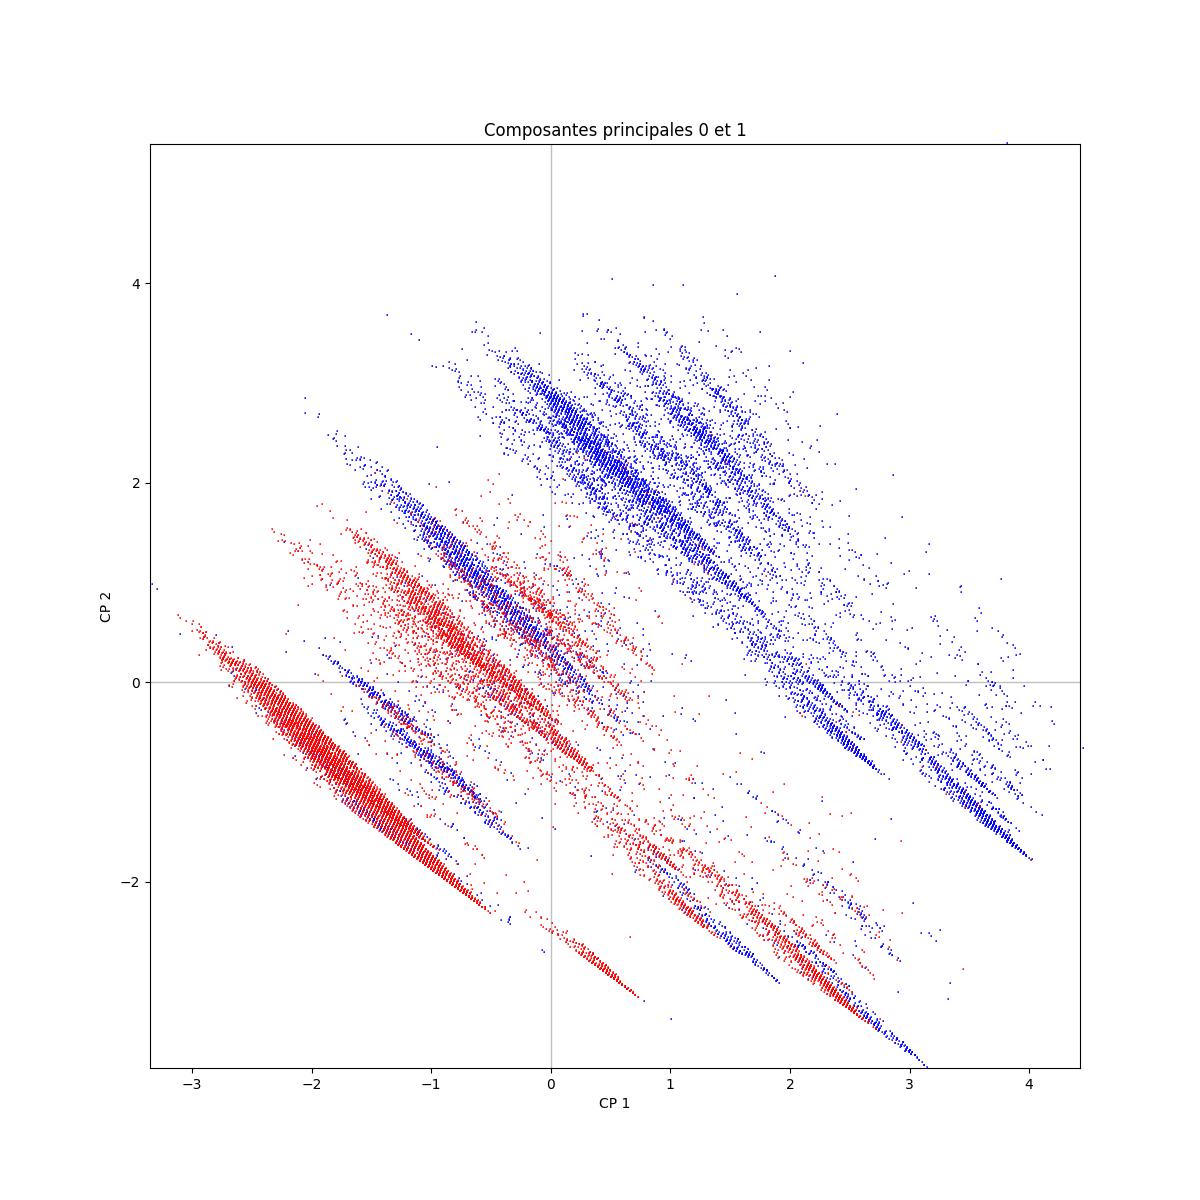
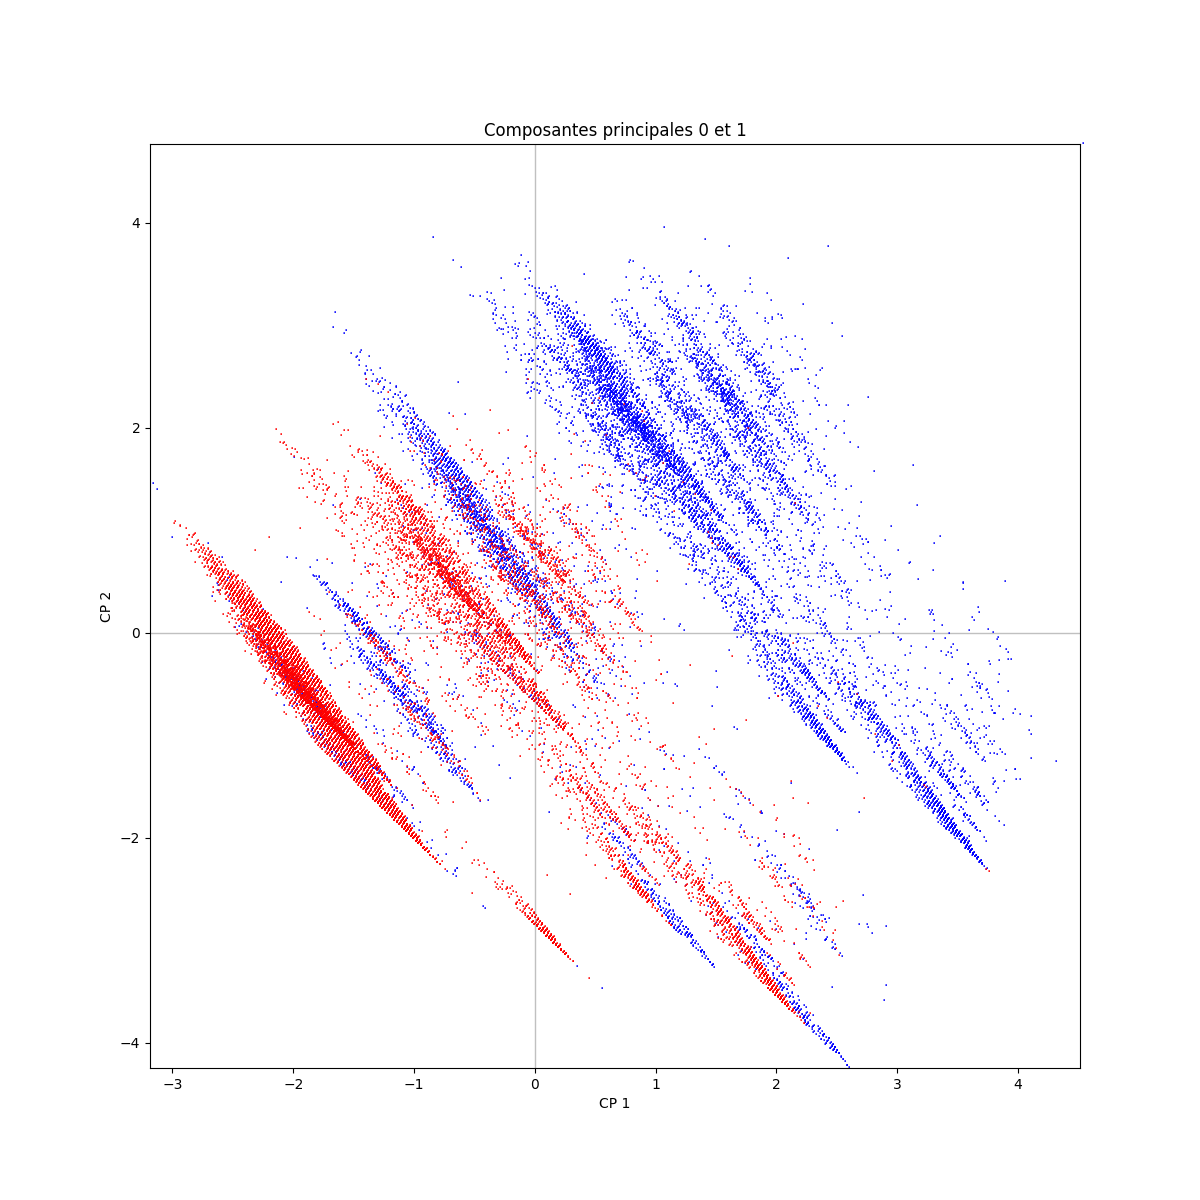
Oui

diff --git a/Kowalski.py b/Kowalski.py
@@ -87,7 +87,6 @@ def main():
     X, Y = get_XY(df, "f")
 
     # Scale des données
-    # scaler = MinMaxScaler()
     scaler = StandardScaler()
     X_cols = X.columns
     x_scaled = scaler.fit_transform(X.values)
@@ -112,13 +111,14 @@ def main():
     save_acp_graph(acp, coord, X, Y, 0, 1)
     save_acp_graph(acp, coord, X, Y, 2, 3)
 
+    # test_predict(X, Y)
+
     # make_elbow(X);
     k = 4
     pca_components = pd.DataFrame(coord)
     make_Kmeans(k, pca_components);
 
 def make_Kmeans(k, X):
-    
     model = KMeans(n_clusters=k)
     fig = plt.figure(figsize=(8, 6))
     # ax = Axes3D(fig, rect=[0, 0, .95, 1], elev=48, azim=134)
